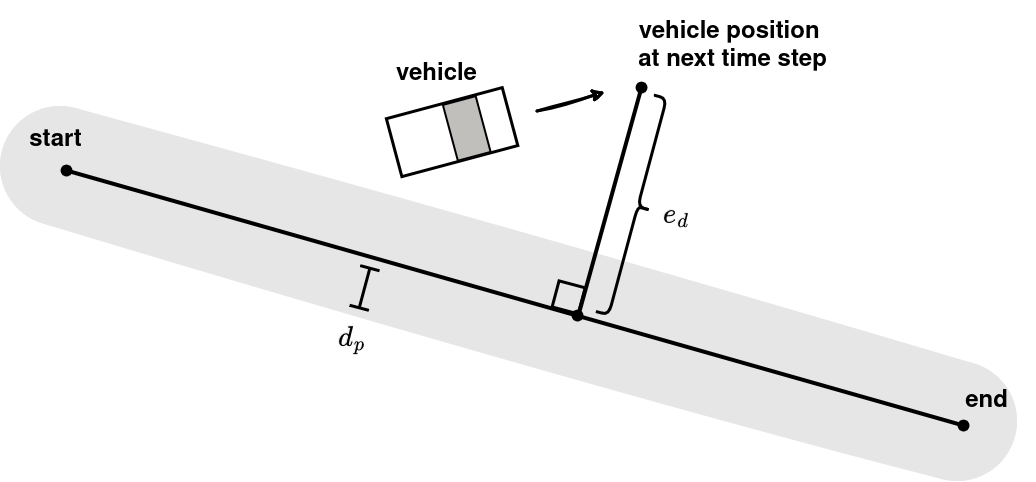
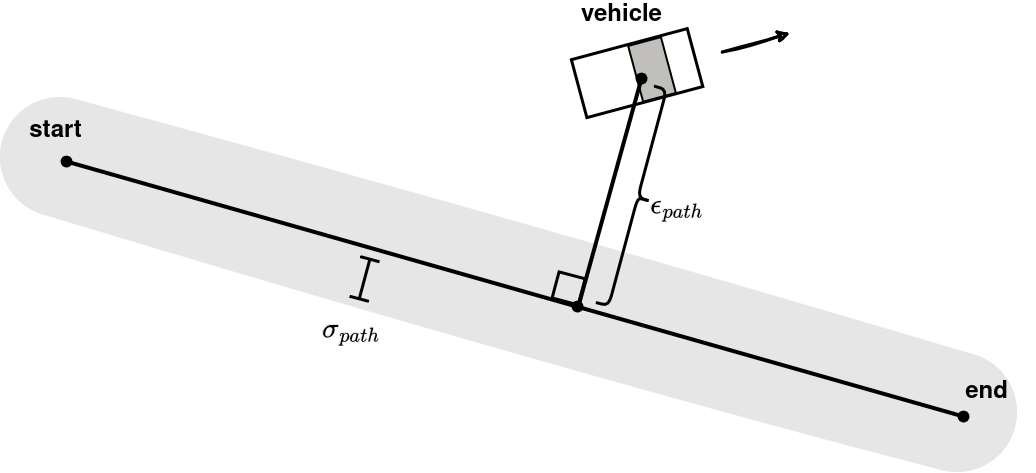
change r_p component explanation + illustration

diff --git a/main_presentation.py b/main_presentation.py
@@ -120,19 +120,44 @@ st.markdown("We can **eventually** define individual component coefficients to a
             Respectively, we will name them $w_c$, $w_{nc}$, $w_s$ and $w_p$.")
 st.markdown(r"> $$R = w_c \cdot r_c + w_{nc} \cdot r_{nc} + w_s \cdot r_s + w_p \cdot r_p$$")
  
-st.markdown("> 📌 **Side note**: the component $r_c,r_{nc}, r_{s}$ are based on reward function of **ADD_REF**\
+st.markdown("> 📌 **Side note**: the components $r_c,r_{nc}, r_{s}$ are based on reward function of **ADD_REF**.\
             The component $r_p$ is handcrafted")
 
-st.markdown("The path following score represents the distance between the initially given path to the autonomous \
-            vehicle (AV) and its future position.\
-             In this context, the variables $d_p$ and $d$ represent the penalty distance and the distance between \
-            the AV and the path, respectively. The formula used to calculate the path following score ($R_c$) is \
-            given by:")
-st.markdown(r"> $$R_c = 1-\frac{2}{1+e^{-d + d_p}}$$")
-st.markdown("This formula provides a measure of how closely the AV is following the path, with higher values \
-            of $R_c$ indicating better adherence to the track.")
+# st.markdown("The path following score represents the distance between the initially given path to the autonomous \
+#             vehicle (AV) and its future position.\
+#              In this context, the variables $d_p$ and $d$ represent the penalty distance and the distance between \
+#             the AV and the path, respectively. The formula used to calculate the path following score ($R_c$) is \
+#             given by:")
+# st.markdown(r"> $$R_c = 1-\frac{2}{1+e^{-d + d_p}}$$")
+# st.markdown("This formula provides a measure of how closely the AV is following the path, with higher values \
+#             of $R_c$ indicating better adherence to the track.")
+
+st.markdown("First, we define the components $r_p$ responsible for the path-following reward. The path-following \
+            reward is continuous, aiming to penalize the agent for deviating too far from the path or moving in the \
+            wrong direction. To achieve this, we evaluate the angle error of the agent's trajectory concerning the \
+            next waypoint on the path, denoted as $\\epsilon_{\\theta}$. Recognizing that considering only the angle error may be \
+            insufficient, we also incorporate the distance between the agent and the path, referred to as \
+            $\\epsilon_{path}$. These two values form the basis of the path-following component. We create two separate \
+            versions—one utilizing only $\\epsilon_{\\theta}$ to explore its individual impact on behavior, and another combining \
+            both elements to assess their collective influence.") 
 
 st.image(f"{img_path}Path_following_reward.png", use_column_width=True)
+st.markdown("The illustration demonstrates the calculation of $\\epsilon_{\\theta}$. As our agent advances along the path, \
+            we compute the angle between the agent's current heading and the vector directed towards the next \
+            waypoint. $d_w$ represents the distance between the agent and the next waypoint, triggering the agent \
+            to proceed to the subsequent waypoint once it falls within a certain threshold.")
+
+st.image(f"{img_path}path_following_illustration.png", use_column_width=True)
+st.markdown("The illustration demonstrates the calculation of $$\\epsilon_{path}$$ as the distance between the agent and \
+            the path. To incentivize the agent to remain near the path, we model the reward using a sigmoid function \
+            centered around the path, with a variance equal to $\\sigma_{path}$.")
+
+st.markdown("The path following reward with only $\\epsilon_{\\theta}$:")
+st.markdown(r"> $$r_p = e^{-\frac{\epsilon_{\theta}}{20}}$$")
+st.markdown("The path following reward with $\\epsilon_{\\theta}$ and $\\epsilon_{path}$:")
+st.markdown(r"> $$r_p = 1-\frac{2}{1+e^{-d + d_p}}$$")#TODO: add the formula
+
+
 
 # Plot
 max_distance_display = 20
